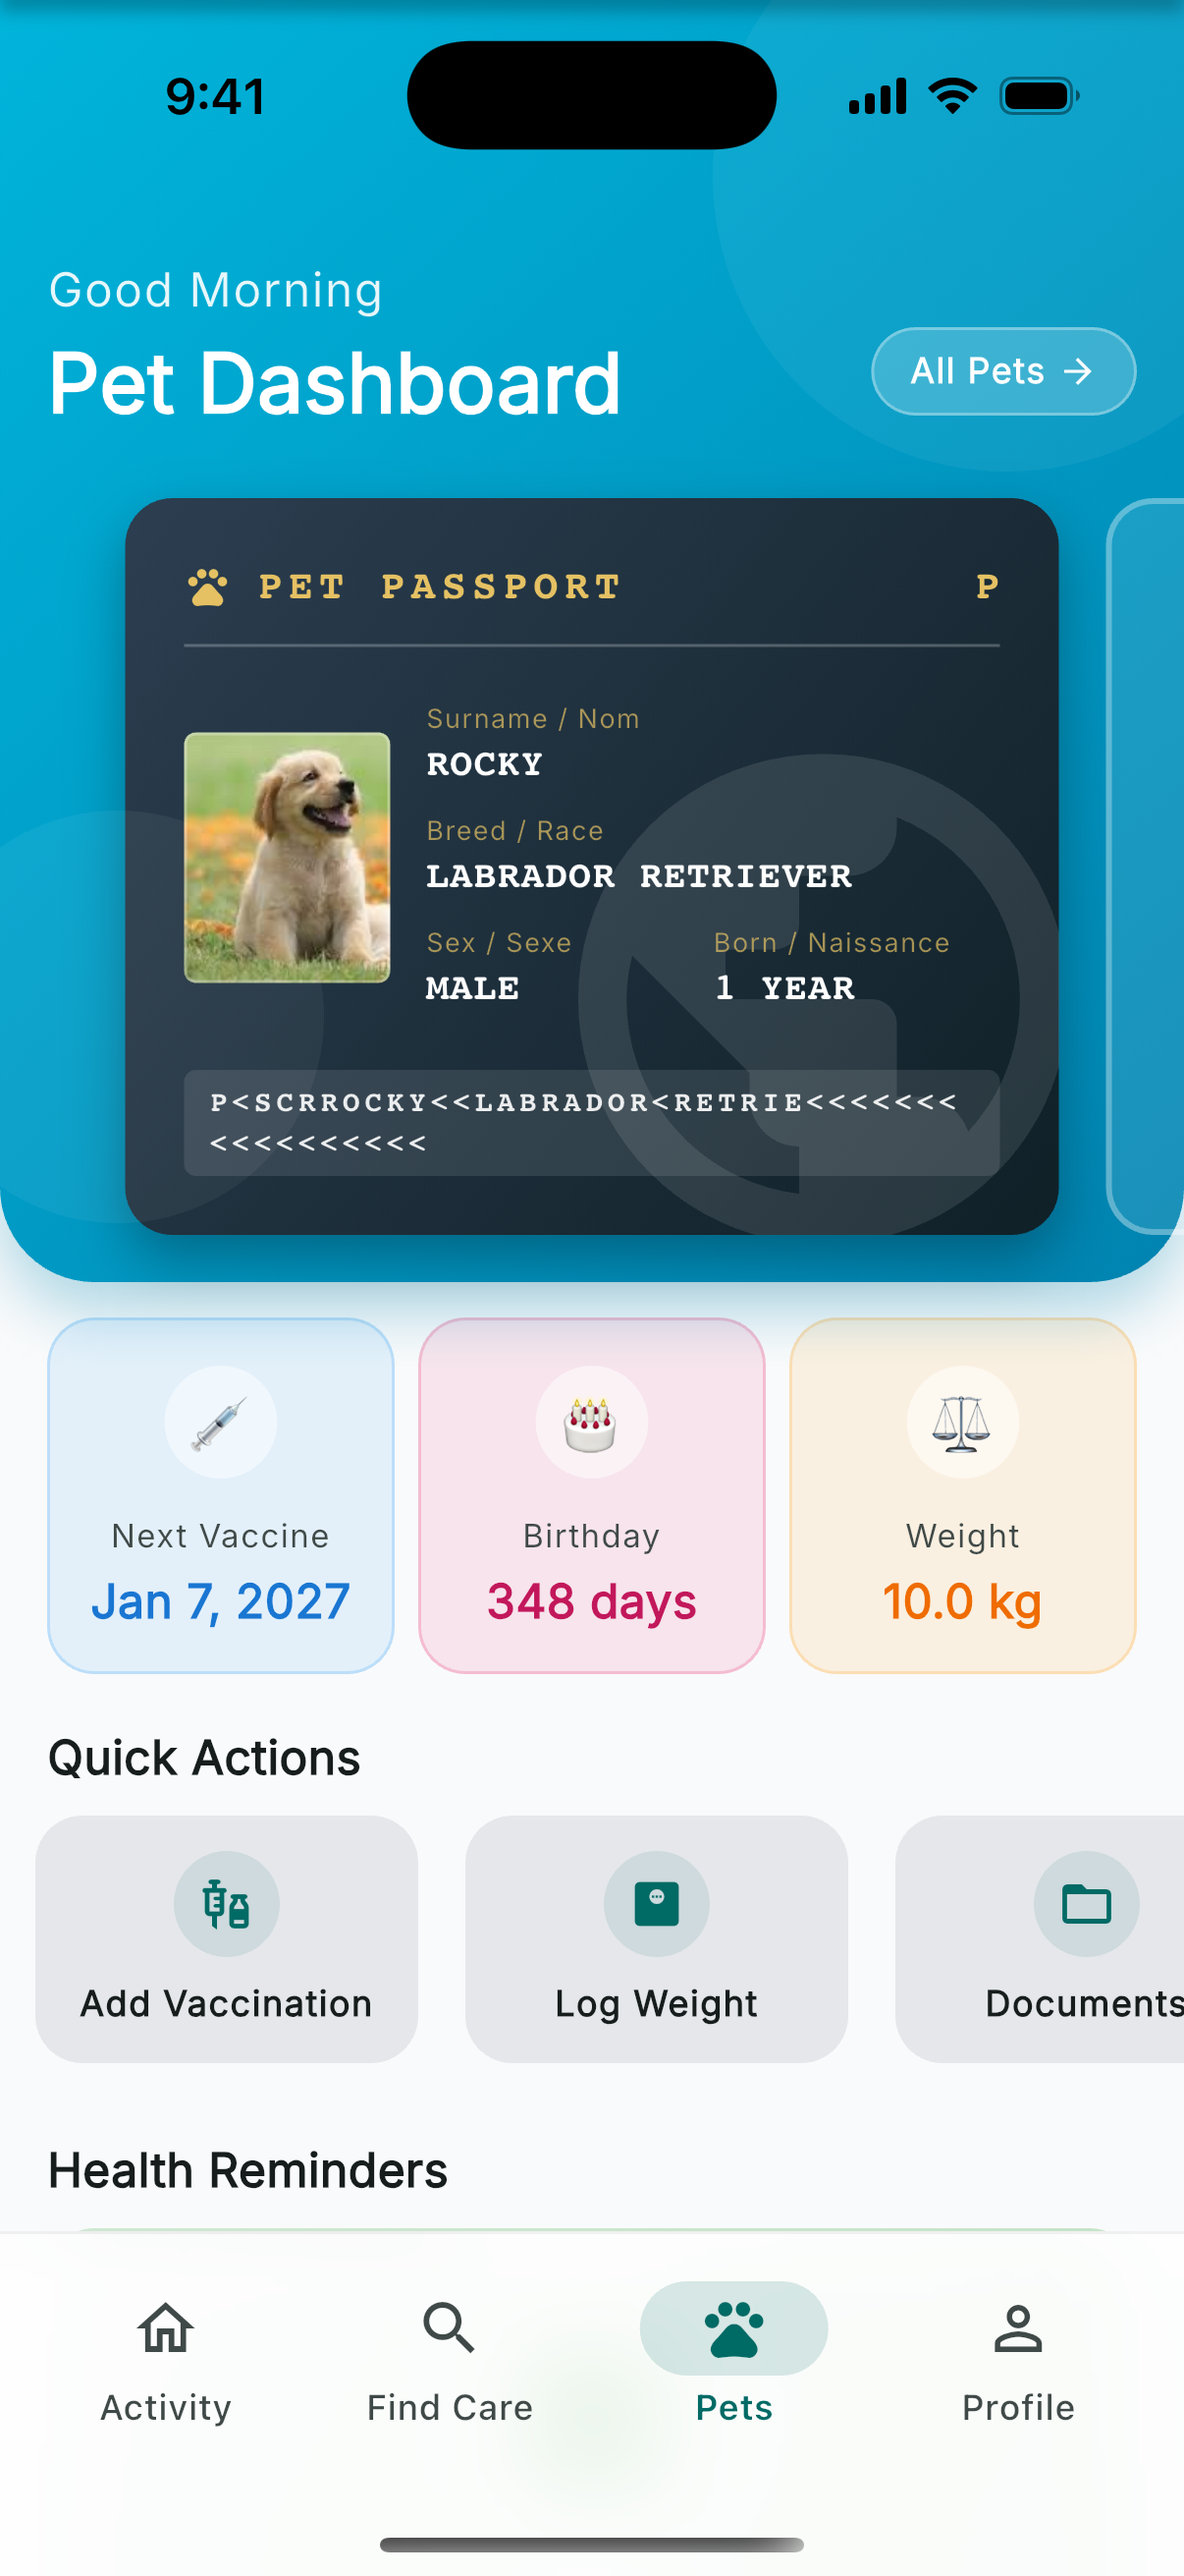
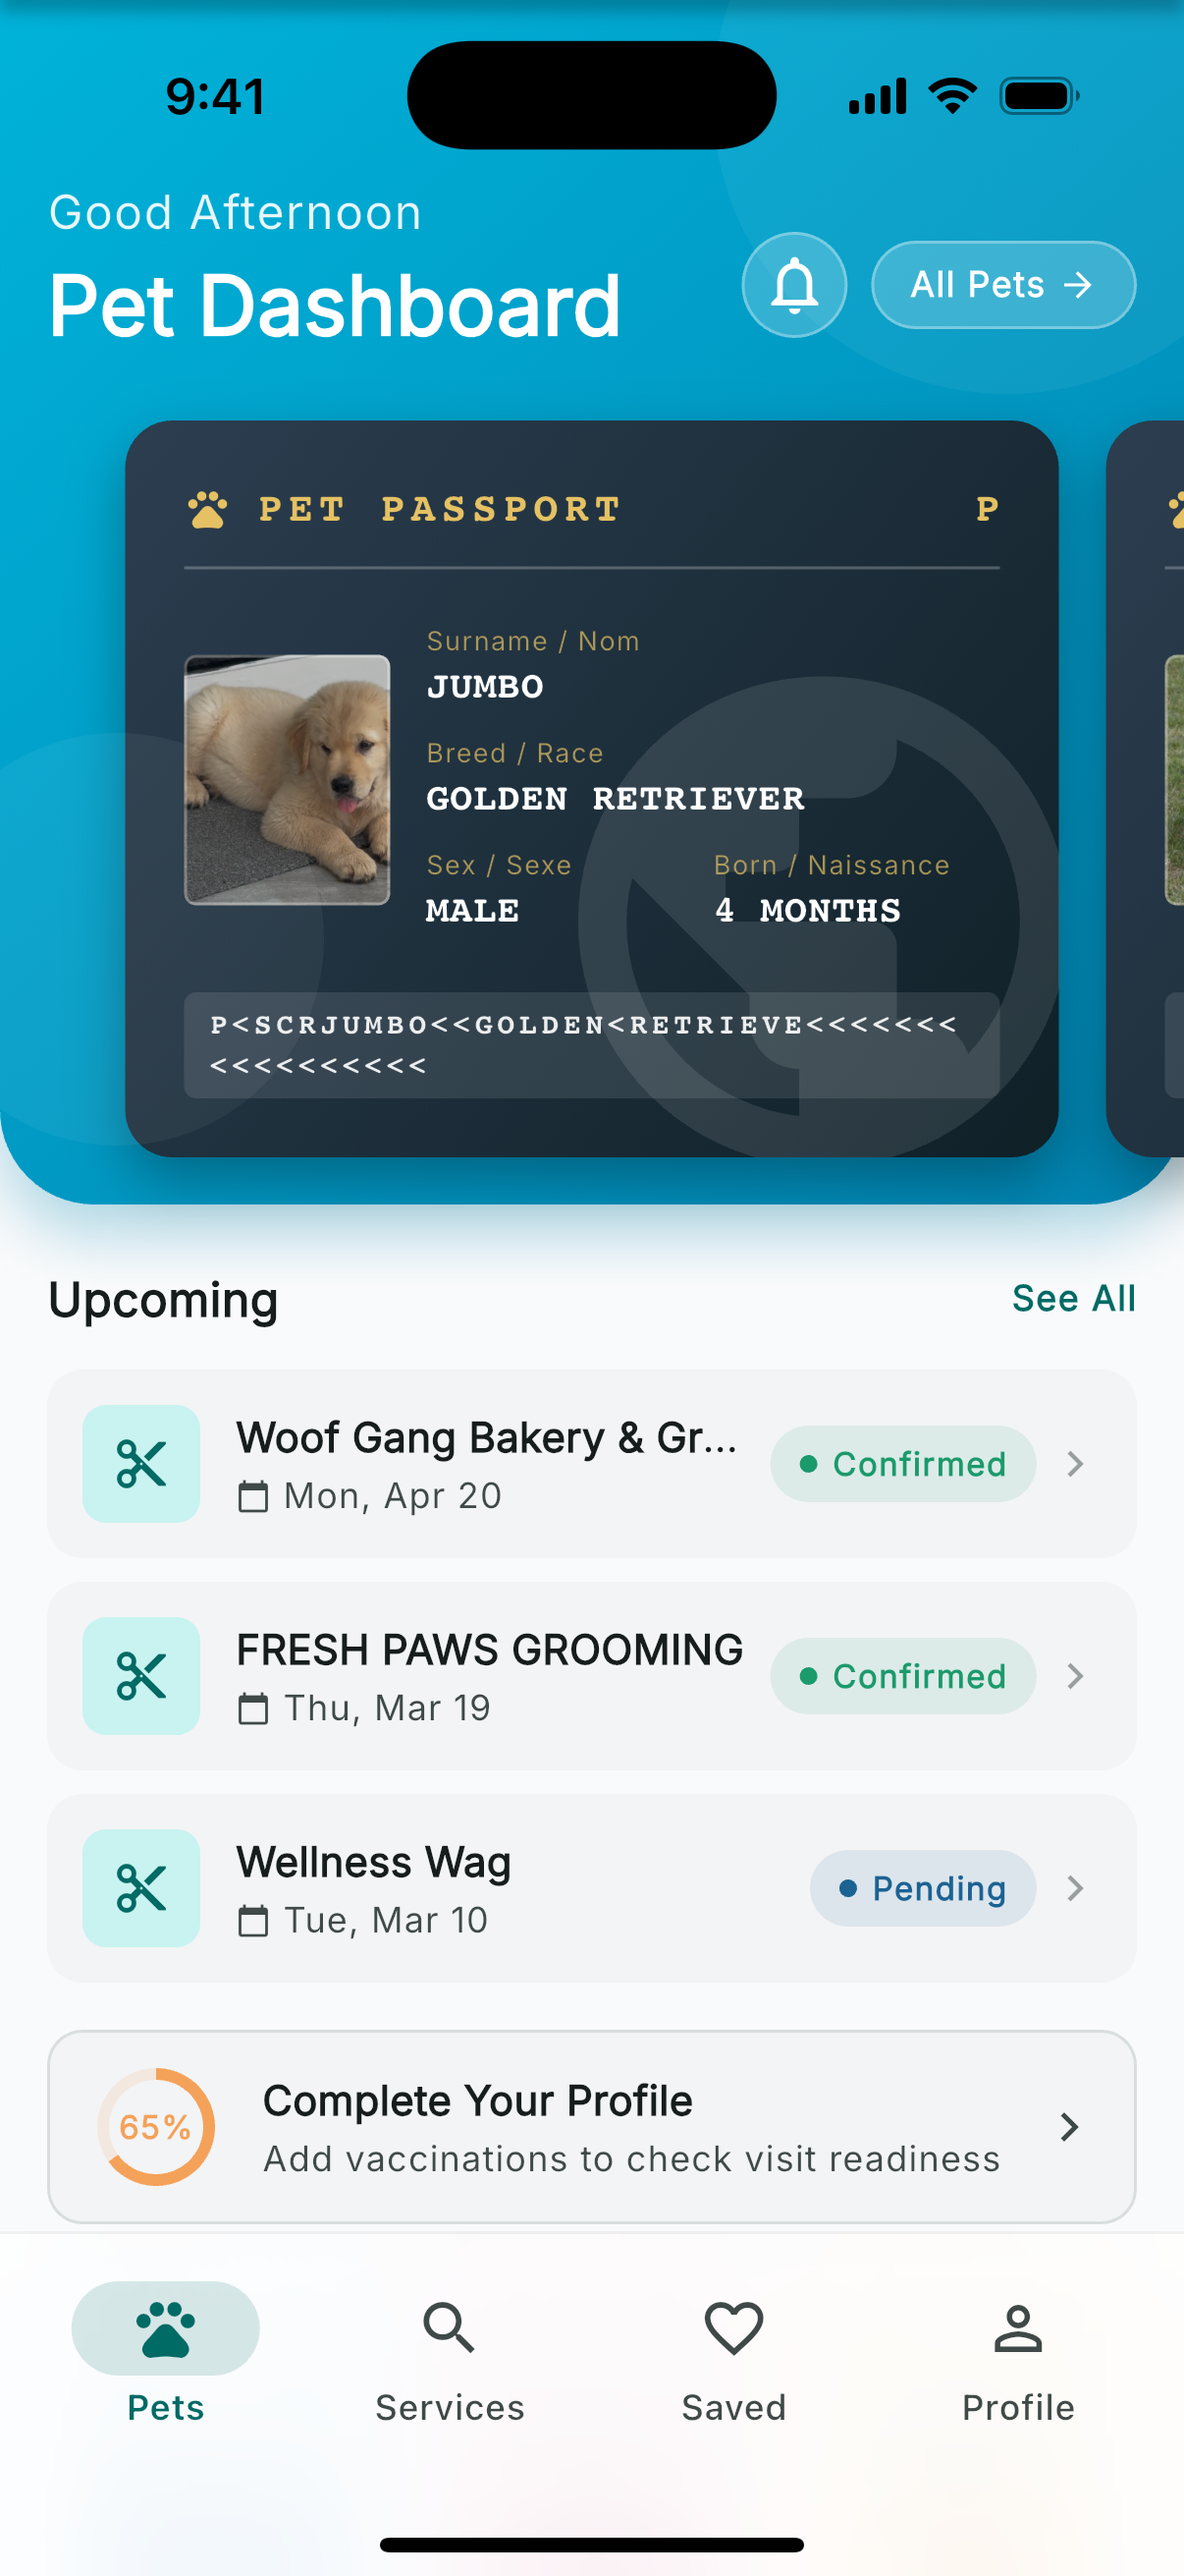
feat: add pet dashboard screenshot to final CTA section
Split CTA into two-column layout with text left and phone mockup
right showing pet passport, upcoming bookings, and confirmed status.

Changed region(s): [[0.0, 0.0618, 1.0, 1.0], [0.7056, 0.7105, 1.0, 0.8032]]

diff --git a/index.html b/index.html
@@ -145,14 +145,21 @@
     <!-- Final CTA -->
     <section id="get-started" class="final-cta">
         <div class="container">
-            <div class="cta-content">
-                <h2>Stop Calling Groomers. Start Booking.</h2>
-                <p>Every groomer near you — plus vets, boarders, and more. Create your pet's profile and request your first appointment in minutes.</p>
-                <div class="cta-buttons">
-                    <a href="https://web.scrubby.app/signup" class="btn-primary-large">Get Started Free</a>
+            <div class="cta-layout">
+                <div class="cta-content">
+                    <h2>Stop Calling Groomers. Start Booking.</h2>
+                    <p>Every groomer near you — plus vets, boarders, and more. Create your pet's profile and request your first appointment in minutes.</p>
+                    <div class="cta-buttons">
+                        <a href="https://web.scrubby.app/signup" class="btn-primary-large">Get Started Free</a>
+                    </div>
+                    <p class="cta-note">Free to book. No fees, no commission, ever.</p>
+                    <p class="cta-login">Already have an account? <a href="https://web.scrubby.app">Log in →</a></p>
                 </div>
-                <p class="cta-note">Free to book. No fees, no commission, ever.</p>
-                <p class="cta-login">Already have an account? <a href="https://web.scrubby.app">Log in →</a></p>
+                <div class="cta-phone">
+                    <div class="cta-phone-mockup">
+                        <img src="images/PetDashboard.png" alt="Pet Dashboard with upcoming bookings" loading="lazy">
+                    </div>
+                </div>
             </div>
         </div>
     </section>

diff --git a/styles.css b/styles.css
@@ -742,7 +742,17 @@ button:focus-visible,
     padding: 80px 20px;
     background: var(--gradient-calm);
     color: white;
-    text-align: center;
+}
+
+.cta-layout {
+    display: grid;
+    grid-template-columns: 1fr 1fr;
+    gap: 60px;
+    align-items: center;
+}
+
+.cta-content {
+    text-align: left;
 }
 
 .final-cta h2 {
@@ -760,9 +770,36 @@ button:focus-visible,
 .final-cta .cta-buttons {
     display: flex;
     gap: 1.5rem;
-    justify-content: center;
     margin: 2rem 0;
     flex-wrap: wrap;
+}
+
+.cta-phone {
+    display: flex;
+    justify-content: center;
+    align-items: center;
+}
+
+.cta-phone-mockup {
+    width: 280px;
+    height: 560px;
+    background: #1a1a1a;
+    border-radius: 36px;
+    padding: 8px;
+    box-shadow:
+        0 25px 50px rgba(0, 0, 0, 0.2),
+        0 10px 20px rgba(0, 0, 0, 0.15),
+        inset 0 0 0 2px rgba(255, 255, 255, 0.1);
+    overflow: hidden;
+    animation: float-gentle 6s ease-in-out infinite;
+}
+
+.cta-phone-mockup img {
+    width: 100%;
+    height: 100%;
+    object-fit: cover;
+    object-position: top center;
+    border-radius: 28px;
 }
 
 .final-cta .btn-primary-large {
@@ -1057,6 +1094,30 @@ button:focus-visible,
     }
 
     /* CTA */
+    .cta-layout {
+        grid-template-columns: 1fr;
+        gap: 40px;
+    }
+
+    .cta-content {
+        text-align: center;
+    }
+
+    .cta-phone {
+        order: -1;
+    }
+
+    .cta-phone-mockup {
+        width: 220px;
+        height: 440px;
+        border-radius: 28px;
+        padding: 6px;
+    }
+
+    .cta-phone-mockup img {
+        border-radius: 22px;
+    }
+
     .final-cta h2 {
         font-size: 2rem;
         margin-bottom: 0.75rem;
